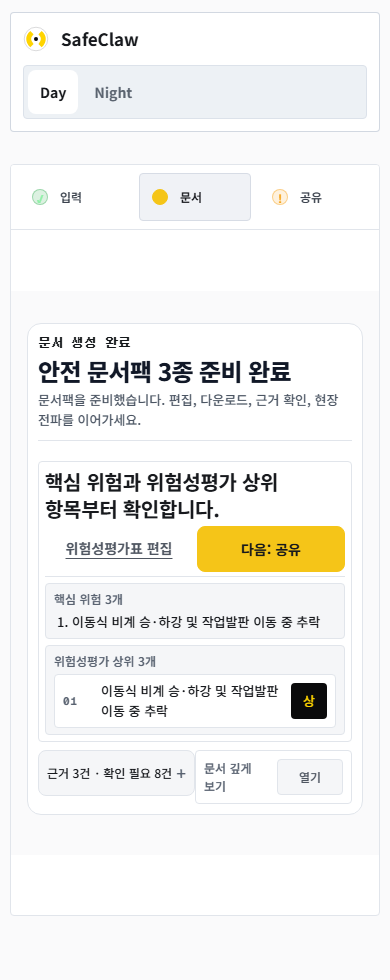
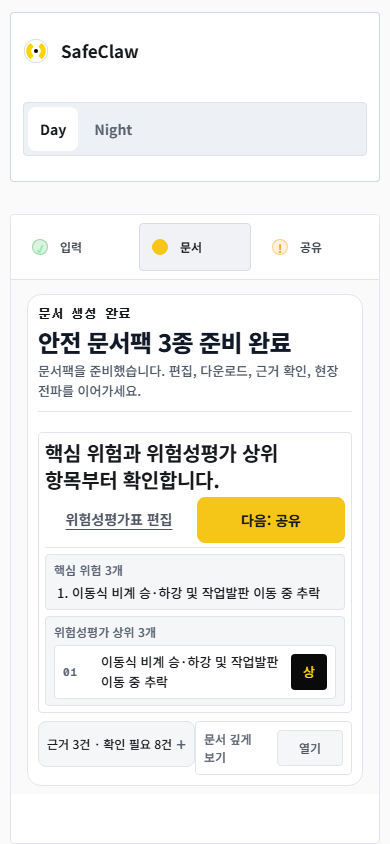
chore: record mobile documents cockpit evidence

diff --git a/evaluation/documents-mobile-exact-cockpit-2026-07-21/report.md b/evaluation/documents-mobile-exact-cockpit-2026-07-21/report.md
@@ -1,0 +1,46 @@
+# Documents Mobile Exact Cockpit Gate
+
+Verdict: `PASS_LOCAL_PRODUCTION_CURRENT_SOURCE`
+
+Product commit: `625d839a404ac2daeec495b7aff47d49303d212d`
+
+This gate closes the remaining mobile Documents shell scroll that survived after Share was fixed. The product change applies the same mobile shell compaction used by Share to the default Documents review cockpit, while keeping full document editing as an intentional drilldown.
+
+## Geometry
+
+Local production, `/workspace`, 390x844:
+
+| Stage | Previous live | Current source | Horizontal overflow | Outside viewport |
+| --- | ---: | ---: | --- | ---: |
+| Documents default cockpit | 980 / 844 = 1.16x | 844 / 844 = 1.00x | false | 0 |
+| Editor drilldown | 1131 / 844 = 1.34x | 1067 / 844 = 1.26x | false | 0 |
+| Share default cockpit | 844 / 844 = 1.00x | 844 / 844 = 1.00x | false | 0 |
+
+Mobile Documents workbench geometry:
+
+- workbench top: 318
+- workbench bottom: 786
+- workbench height: 492
+- deep review open by default: false
+- visible document preview panes by default: 0
+
+Desktop surfaces were not targeted by this wave:
+
+- desktop-short Documents: 876 / 723 = 1.21x
+- desktop Documents: 1053 / 900 = 1.17x
+- desktop Share: 946 / 900 = 1.05x
+
+## Checks
+
+- `npm.cmd test -- tests\workspace-layout-regression.test.ts -t "keeps the generated documents review cockpit before full editor drilldown" --maxWorkers=1 --fileParallelism=false --hookTimeout=180000` -> PASS, 1 file / 1 passed / 28 skipped
+- `npm.cmd test -- tests\workspace-layout-regression.test.ts -t "keeps the generated document edit flow inside the workspace design system" --maxWorkers=1 --fileParallelism=false --hookTimeout=180000` -> PASS, 1 file / 1 passed / 27 skipped
+- `npm.cmd run build` -> PASS, 28/28 static pages
+- `npm.cmd run typecheck` -> PASS
+- `SAFECLAW_BASE_URL=http://127.0.0.1:3052 node evaluation\workspace-docs-share-production-gate-2026-07-20\run-current-geometry-probe.mjs` -> PASS
+
+## Scope notes
+
+- This is not a route-splitting claim.
+- Provider live dispatch remains outside this gate.
+- Live production promotion is pending until `/api/build-info` reaches `625d839a404ac2daeec495b7aff47d49303d212d` or a later commit and the live geometry probe is rerun.
+- Full editor drilldown may remain scrollable because editing a safety document is an intentional long-form task.
